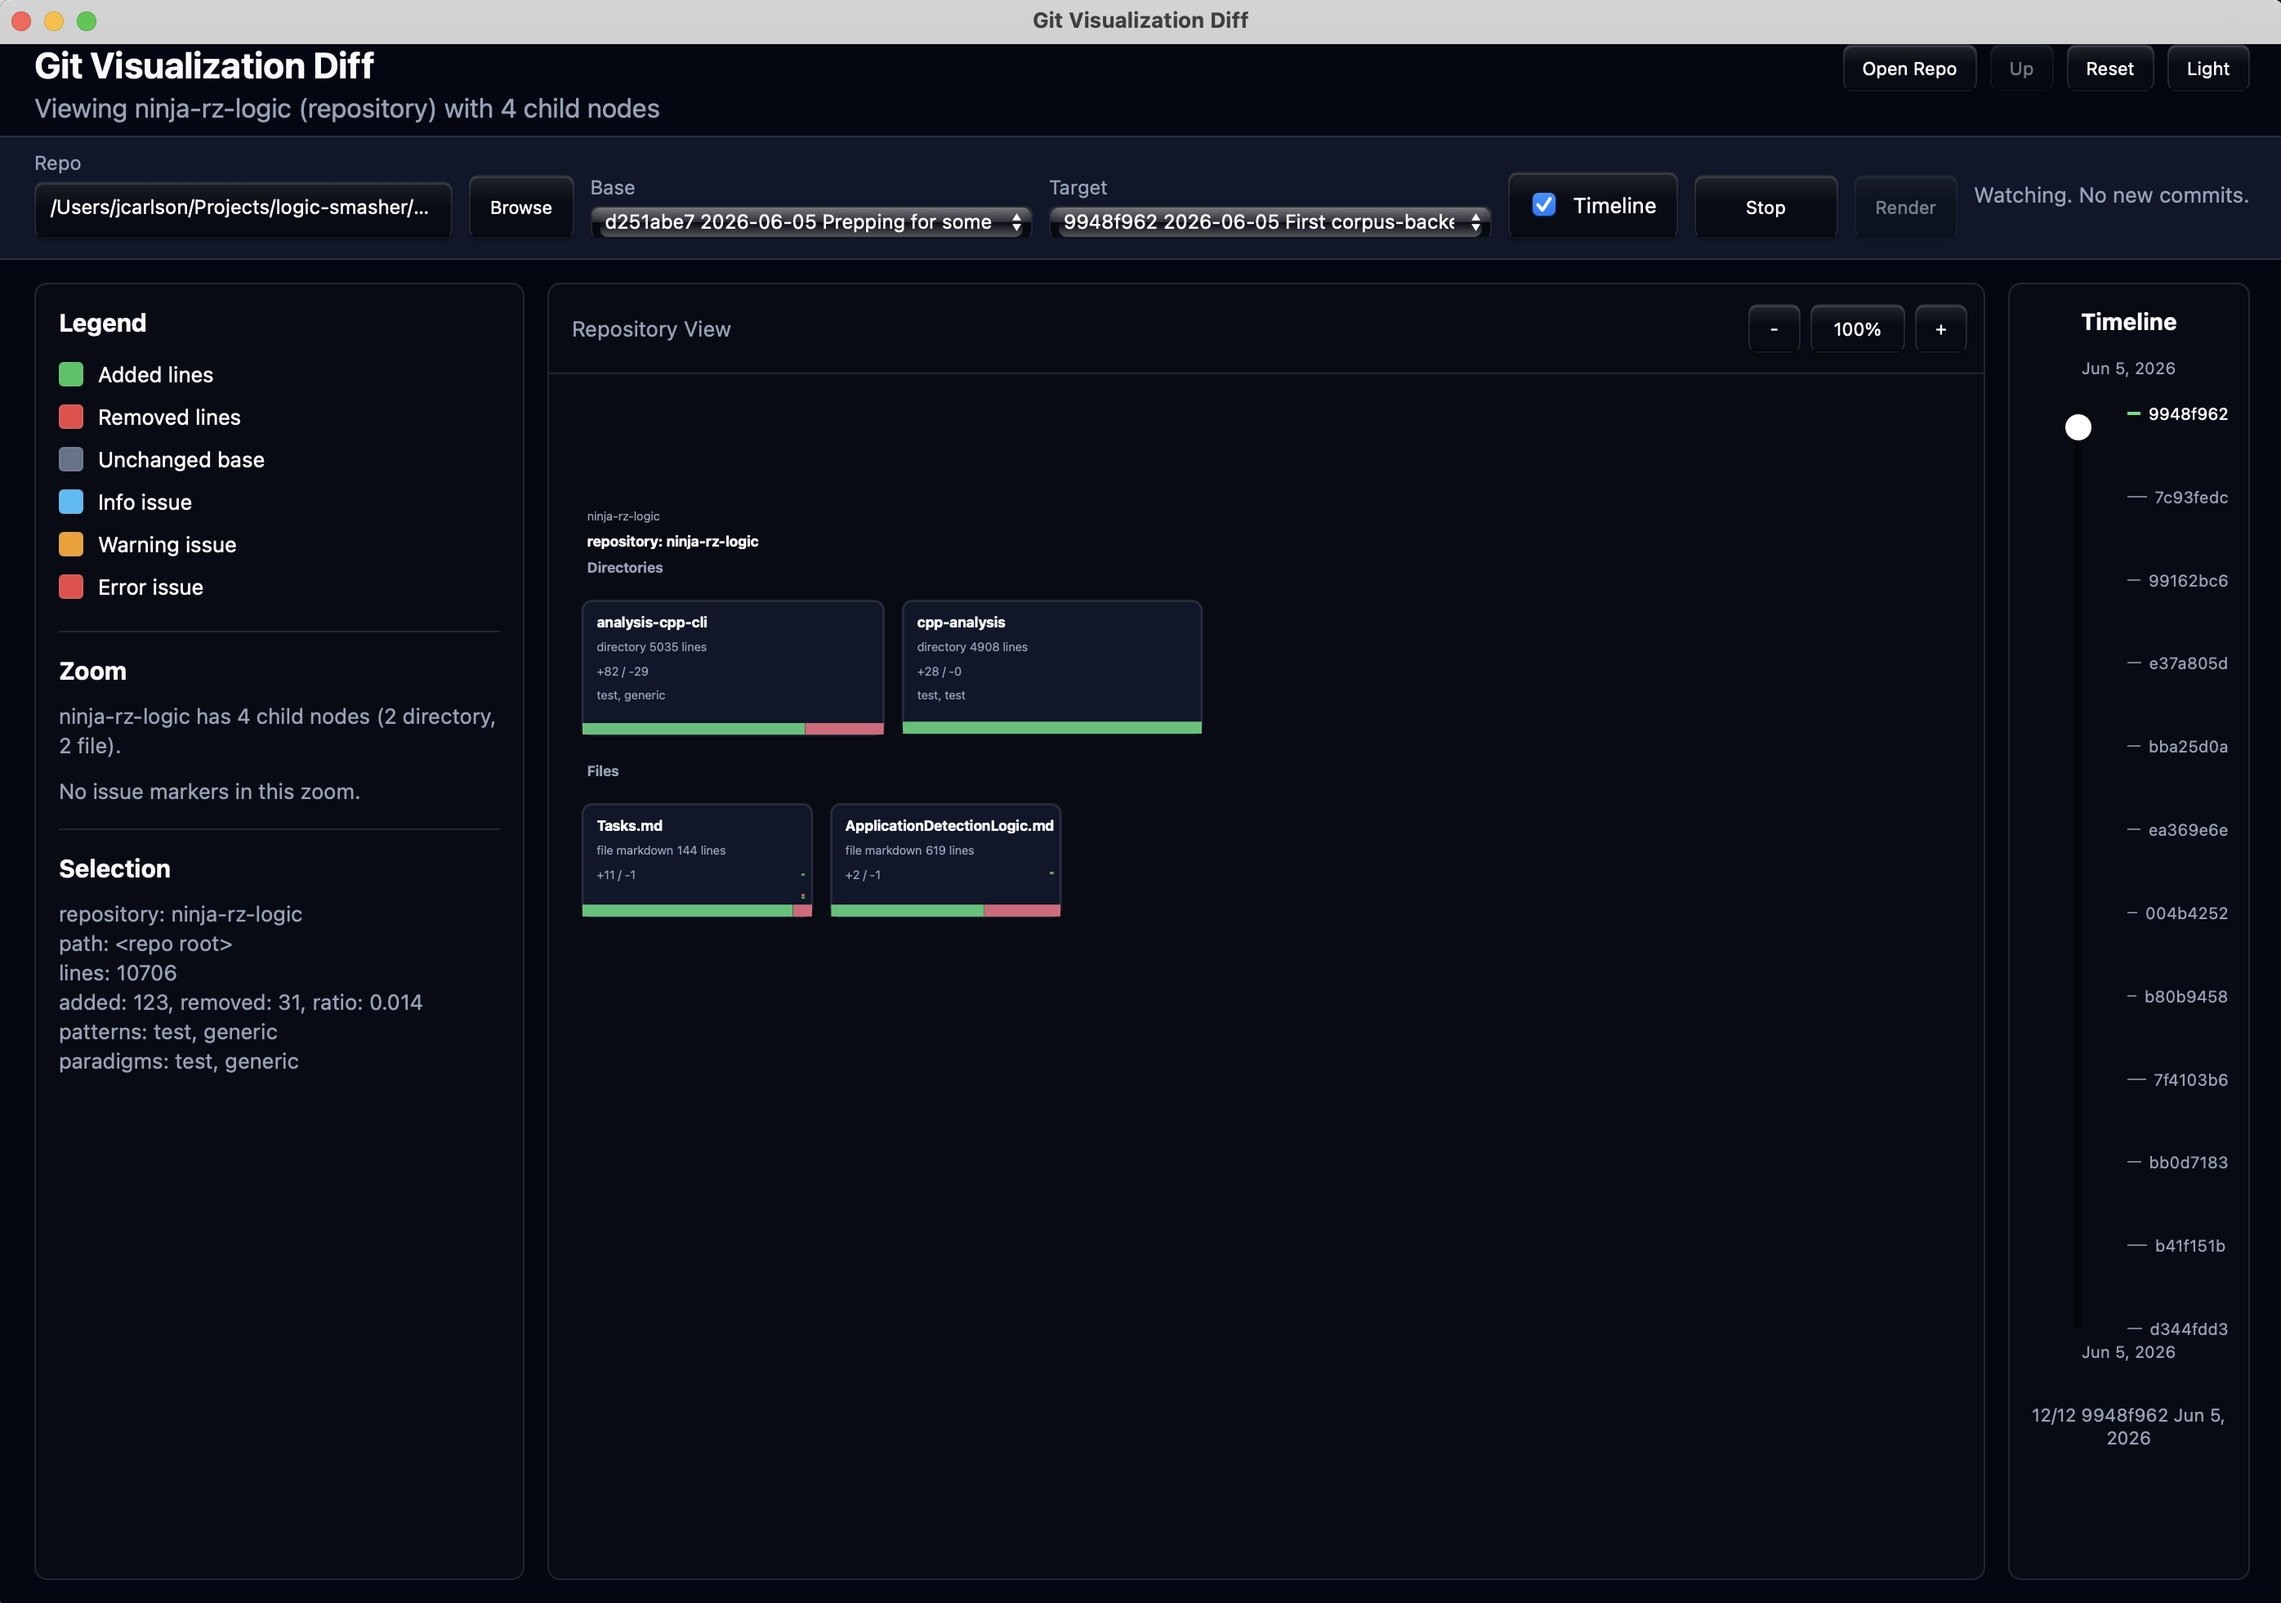
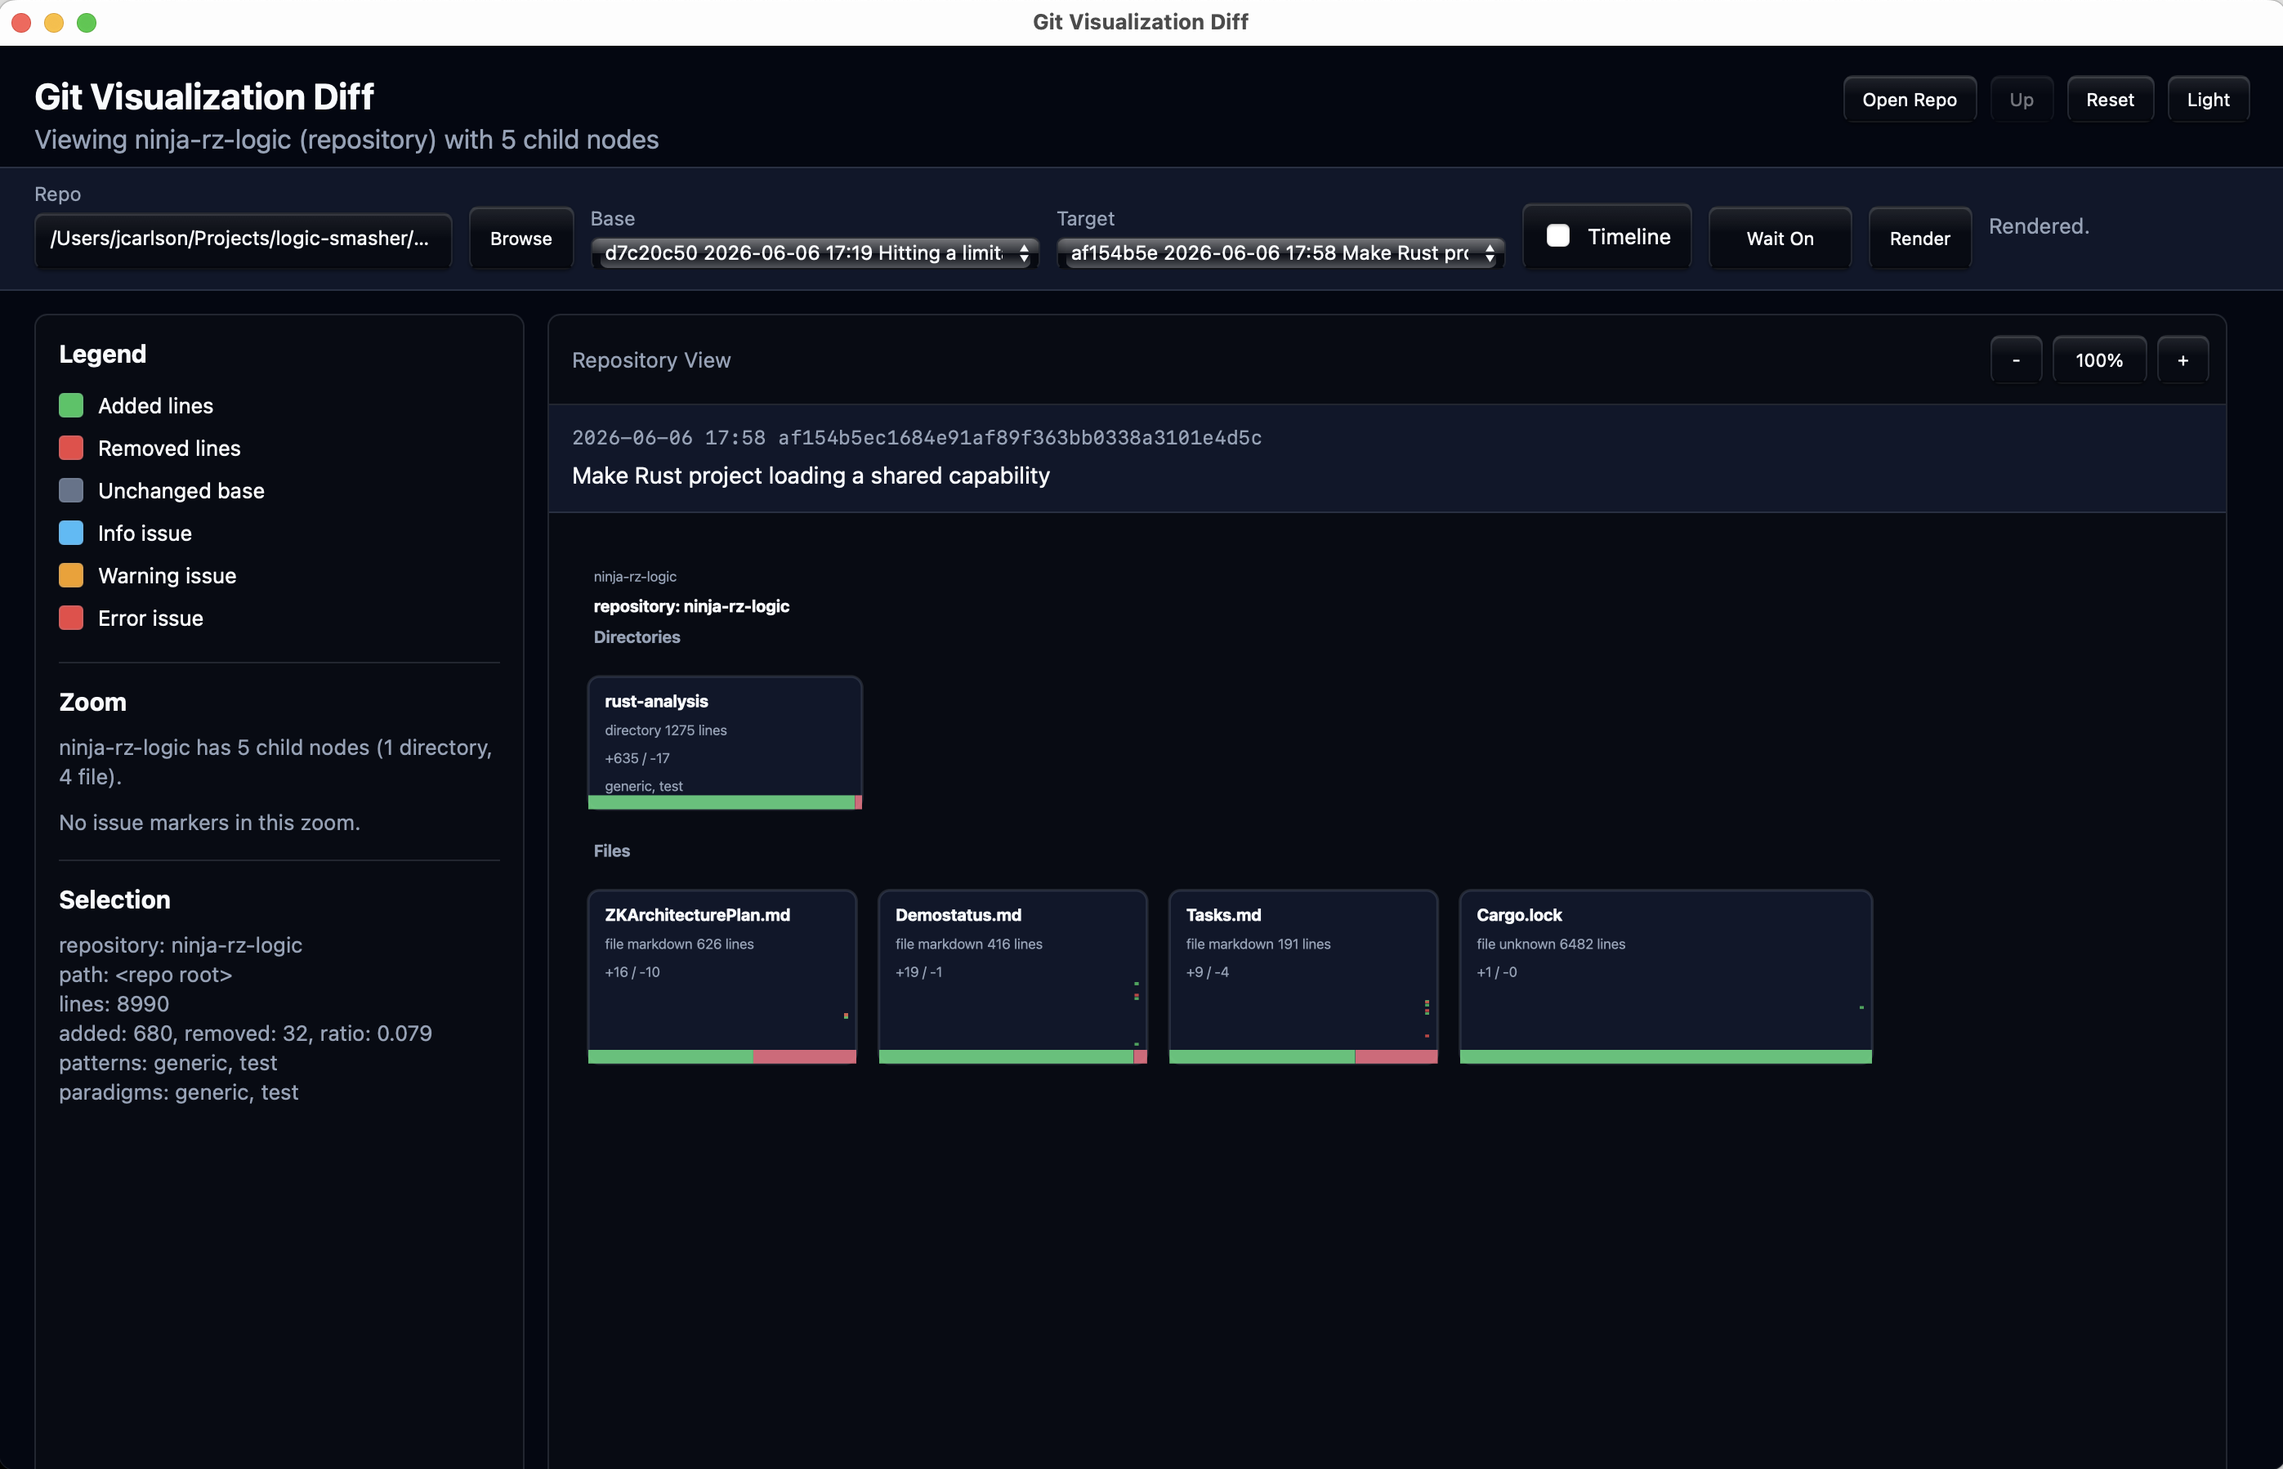
Updating README

diff --git a/README.md b/README.md
@@ -1,6 +1,6 @@
 # Git Visualization Diff
 
-This is the OCaml port scaffold for `visualization-diff`.
+![image](Screenshot.v0.4.png)
 
 See [Tutorial.md](Tutorial.md) for a start-to-finish walkthrough. It uses
 `getsentry/sentry-cocoa` as an example repository, but the workflow is generic.
